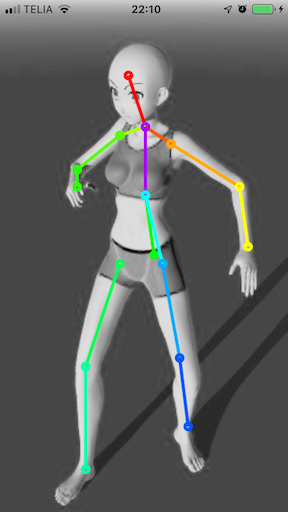
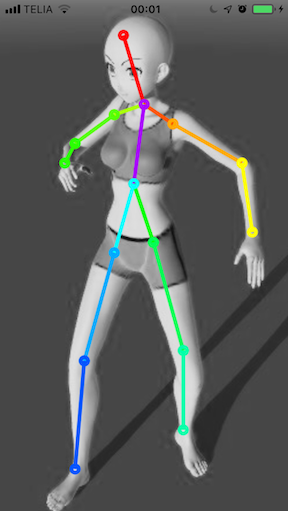
New results were added

diff --git a/pose/Pose.swift b/pose/Pose.swift
@@ -343,6 +343,24 @@ extension PoseEstimation {
     }
 }
 
+extension HeatMapJointCandidate {
+    func scaled(kx: CGFloat, ky: CGFloat) -> HeatMapJointCandidate {
+        return HeatMapJointCandidate(col: Int(CGFloat(self.col) * kx), row: Int(CGFloat(self.row) * kx),
+                                     layerIndex: self.layerIndex, confidence: self.confidence)
+    }
+}
+
+extension JointConnectionWithScore {
+    func scaled(kx: CGFloat, ky: CGFloat) -> JointConnectionWithScore {
+        return JointConnectionWithScore(connection: self.connection , score: self.score,
+                                        offsetJoint1: self.offsetJoint1, offsetJoint2: self.offsetJoint2,
+                                        joint1: JointPoint(x: Int(kx * CGFloat(self.joint1.x)),
+                                                           y: Int(ky * CGFloat(self.joint1.y))),
+                                        joint2: JointPoint(x: Int(kx * CGFloat(self.joint2.x)),
+                                                           y: Int(ky * CGFloat(self.joint2.y))))
+    }
+}
+
 extension PoseEstimation {
     
     private func resetOutput() {
@@ -393,22 +411,23 @@ extension PoseEstimation {
             // Use alpha to indicate candiates confidence
             let resizedBackgroundLayer = backgroundLayer.draw(width: modelOutputWidth,
                                                               height: modelOutputHeight).resized(to: self.modelConfig.inputSize)
-            completion(self.heatMapCandidates.draw(width: modelOutputWidth,
-                                          height: modelOutputHeight,
-                                          radius: 3.0,
-                                          lineWidth: 2.0,
-                                          on: resizedBackgroundLayer))
+            let kx = CGFloat(self.modelConfig.inputSize.width) / CGFloat(modelOutputWidth)
+            let ky = CGFloat(self.modelConfig.inputSize.height) / CGFloat(modelOutputHeight)
+            let candidates = self.heatMapCandidates.map { $0.scaled(kx: kx, ky: ky) }
+            completion(candidates.draw(radius: 3.0, lineWidth: 2.0, on: resizedBackgroundLayer))
         }
     }
     
     public func filteredHeatMapCandidatesImage(completion: @escaping ((UIImage)->())) {
         DispatchQueue.global(qos: .userInteractive).async {
+            let modelOutputWidth = self.modelConfig.outputWidth
+            let modelOutputHeight = self.modelConfig.outputHeight
+            let kx = CGFloat(self.modelConfig.inputSize.width) / CGFloat(modelOutputWidth)
+            let ky = CGFloat(self.modelConfig.inputSize.height) / CGFloat(modelOutputHeight)
+            let candidates = self.filteredHeatMapCandidates.map { $0.scaled(kx: kx, ky: ky) }
             // Draw joint candidates after second round filtering
-            completion(self.filteredHeatMapCandidates.draw(width: self.modelConfig.outputWidth,
-                                                  height: self.modelConfig.outputHeight,
-                                                  radius: 3.0,
-                                                  lineWidth: 6.0,
-                                                  on: UIImage.image(with: .white, size: self.modelConfig.inputSize)))
+            completion(candidates.draw(radius: 3.0, lineWidth: 6.0,
+                                       on: UIImage.image(with: .white, size: self.modelConfig.inputSize)))
         }
     }
     
@@ -418,10 +437,7 @@ extension PoseEstimation {
             let allConnectionsImage = self.allConnectionCandidates.draw(lineWidth: 5,
                                                                    on: UIImage.image(with: .white, size: self.modelConfig.inputSize))
             // Draw filtered joints over the all connection candidates
-            completion(self.filteredHeatMapCandidates.draw(width: self.modelConfig.outputWidth,
-                                        height: self.modelConfig.outputHeight,
-                                        radius: 5,
-                                        lineWidth: 3,
+            completion(self.filteredHeatMapCandidates.draw( radius: 5, lineWidth: 3,
                                         on: allConnectionsImage))
         }
     }
@@ -445,15 +461,17 @@ extension PoseEstimation {
                                                        blockSize: self.modelOutputLayerStride))
                 let pafMatY = Array(self.networkOutput.slice(blockIndex: pafLayerStartIndex + indexY,
                                                        blockSize: self.modelOutputLayerStride))
-                let pafXImage = pafMatX.draw(width: modelOutputWidth, height: modelOutputHeight)
-                let pafYImage = pafMatY.draw(width: modelOutputWidth, height: modelOutputHeight)
+                let pafXImage = pafMatX.draw(width: modelOutputWidth,
+                                             height: modelOutputHeight).resized(to: modelInputSize)
+                let pafYImage = pafMatY.draw(width: modelOutputWidth,
+                                             height: modelOutputHeight).resized(to: modelInputSize)
                 
-                // Two joints one connection
-                let joints1 = self.heatMapCandidates.filter({ $0.layerIndex == connection.joints.0.index()})
-                let joints2 = self.heatMapCandidates.filter({ $0.layerIndex == connection.joints.1.index()})
-                let filteredJoints1 = self.filteredHeatMapCandidates.filter({ $0.layerIndex == connection.joints.0.index()})
-                let filteredJoints2 = self.filteredHeatMapCandidates.filter({ $0.layerIndex == connection.joints.1.index()})
-                let jointConns = self.allConnectionCandidates.filter({ $0.connection == connection })
+                // Two joints one connection in between
+                var joints1 = self.heatMapCandidates.filter({ $0.layerIndex == connection.joints.0.index()})
+                var joints2 = self.heatMapCandidates.filter({ $0.layerIndex == connection.joints.1.index()})
+                var filteredJoints1 = self.filteredHeatMapCandidates.filter({ $0.layerIndex == connection.joints.0.index()})
+                var filteredJoints2 = self.filteredHeatMapCandidates.filter({ $0.layerIndex == connection.joints.1.index()})
+                var jointConns = self.allConnectionCandidates.filter({ $0.connection == connection })
                 
                 // The index of joint is equal to a heatmap index
                 let (heatMapIndex1, heatMapIndex2) = (connection.joints.0.index(), connection.joints.1.index())
@@ -463,60 +481,47 @@ extension PoseEstimation {
                                                         blockSize: self.modelOutputLayerStride))
                 let heatMap2 = Array(self.networkOutput.slice(blockIndex: heatMapIndex2,
                                                         blockSize: self.modelOutputLayerStride))
-                var heatMap1Image = heatMap1.draw(width: modelOutputWidth, height: modelOutputHeight)
-                var heatMap2Image = heatMap2.draw(width: modelOutputWidth, height: modelOutputHeight)
+                var heatMap1Image = heatMap1.draw(width: modelOutputWidth,
+                                                  height: modelOutputHeight).resized(to: modelInputSize)
+                var heatMap2Image = heatMap2.draw(width: modelOutputWidth,
+                                                  height: modelOutputHeight).resized(to: modelInputSize)
+                
+                let jointRadius = CGFloat(Int(modelInputSize.width) / modelOutputWidth / 2)
+                let connectionWidth = jointRadius * 0.8
+                
+                // NN output has a reduced size comparing to the input
+                // Although for a good visual experience it is better to enlarge the size
+                // To do this let's scale the heatmap and PAF`s output coordinates
+                let kx = CGFloat(self.modelConfig.inputSize.width) / CGFloat(modelOutputWidth)
+                let ky = CGFloat(self.modelConfig.inputSize.height) / CGFloat(modelOutputHeight)
+                joints1 = joints1.map { $0.scaled(kx: kx, ky: ky) }
+                joints2 = joints2.map { $0.scaled(kx: kx, ky: ky) }
+                filteredJoints1 = filteredJoints1.map { $0.scaled(kx: kx, ky: ky) }
+                filteredJoints2 = filteredJoints2.map { $0.scaled(kx: kx, ky: ky) }
+                jointConns = jointConns.map { $0.scaled(kx: kx, ky: ky) }
                 
                 // Draw joint candidates on the heat map layers
-                heatMap1Image = filteredJoints1.draw(width: modelOutputWidth,
-                                                     height: modelOutputHeight,
-                                                     alpha: 1.0,
-                                                     radius: 5,
-                                                     lineWidth: 3,
-                                                     on: heatMap1Image.resized(to: modelInputSize))
-                resultImages.append(joints1.draw(width: modelOutputWidth,
-                                                 height: modelOutputHeight,
-                                                 radius: 5,
-                                                 lineWidth: 0.5,
+                heatMap1Image = filteredJoints1.draw(alpha: 1.0, radius: 2, lineWidth: 2,
+                                                     on: heatMap1Image)
+                resultImages.append(joints1.draw(radius: jointRadius, lineWidth: 1,
                                                  on: heatMap1Image))
-                heatMap2Image = filteredJoints2.draw(width: modelOutputWidth,
-                                                     height: modelOutputHeight,
-                                                     alpha: 1.0,
-                                                     radius: 5,
-                                                     lineWidth: 3,
-                                                     on: heatMap2Image.resized(to: modelInputSize))
-                resultImages.append(joints2.draw(width: modelOutputWidth,
-                                                 height: modelOutputHeight,
-                                                 radius: 5,
-                                                 lineWidth: 0.5,
+                heatMap2Image = filteredJoints2.draw(alpha: 1.0, radius: 2, lineWidth: 2,
+                                                     on: heatMap2Image)
+                resultImages.append(joints2.draw(radius: jointRadius, lineWidth: 1,
                                                  on: heatMap2Image))
+                
                 // Draw joint candidates and connections on the PAFs layers
-                var pafXJointsConnectionsImage = filteredJoints1.draw(width: modelOutputWidth,
-                                                         height: modelOutputHeight,
-                                                         alpha: 1.0,
-                                                         radius: 7,
-                                                         lineWidth: 3,
-                                                         on: pafXImage.resized(to: modelInputSize))
-                pafXJointsConnectionsImage = filteredJoints2.draw(width: modelOutputWidth,
-                                                                      height: modelOutputHeight,
-                                                                      alpha: 1.0,
-                                                                      radius: 7,
-                                                                      lineWidth: 3,
-                                                                      on: pafXJointsConnectionsImage)
-                var pafYJointsConnectionsImage = filteredJoints1.draw(width: modelOutputWidth,
-                                                         height: modelOutputHeight,
-                                                         alpha: 1.0,
-                                                         radius: 7,
-                                                         lineWidth: 3,
-                                                         on: pafYImage.resized(to: modelInputSize))
-                pafYJointsConnectionsImage = filteredJoints2.draw(width: modelOutputWidth,
-                                                                      height: modelOutputHeight,
-                                                                      alpha: 1.0,
-                                                                      radius: 7,
-                                                                      lineWidth: 3,
-                                                                      on: pafYJointsConnectionsImage)
-                resultImages.append(jointConns.draw(lineWidth: 3,
+                var pafXJointsConnectionsImage = filteredJoints1.draw(alpha: 1.0, radius: 2 * jointRadius, lineWidth: 3,
+                                                                      on: pafXImage)
+                pafXJointsConnectionsImage = filteredJoints2.draw(alpha: 1.0, radius: 2 * jointRadius, lineWidth: 3,
+                                                                  on: pafXJointsConnectionsImage)
+                var pafYJointsConnectionsImage = filteredJoints1.draw(alpha: 1.0, radius: 2 * jointRadius, lineWidth: 3,
+                                                                      on: pafYImage)
+                pafYJointsConnectionsImage = filteredJoints2.draw(alpha: 1.0, radius: 2 * jointRadius, lineWidth: 3,
+                                                                  on: pafYJointsConnectionsImage)
+                resultImages.append(jointConns.draw(lineWidth: 2 * connectionWidth,
                                                     on: pafXJointsConnectionsImage))
-                resultImages.append(jointConns.draw(lineWidth: 3,
+                resultImages.append(jointConns.draw(lineWidth: 2 * connectionWidth,
                                                     on: pafYJointsConnectionsImage))
             }
             completion(resultImages)

diff --git a/pose/Extensions/Array+Extension.swift b/pose/Extensions/Array+Extension.swift
@@ -87,16 +87,12 @@ extension Array where Element == HeatMapJointCandidate {
     /// Draws heat map candidates on a specified image
     /// If alpha specified then it will be used or an alpha is calculated dynamically based on a heat map candidate's confidence
     /// The lineWidth varies based on the candidate's confidence
-    func draw(width: Int, height: Int, alpha: CGFloat? = nil,
-              radius: CGFloat = 3, lineWidth: CGFloat = 1, on image: UIImage) -> UIImage {
+    func draw(alpha: CGFloat? = nil, radius: CGFloat = 3,
+              lineWidth: CGFloat = 1, offset: CGFloat = 4, on image: UIImage) -> UIImage {
         let confidences: [Float] = self.map({ $0.confidence })
         guard let convertedValues = confidences.converted(from : confidences, highestValue: 0.7) else {
             return UIImage()
         }
-        let kx = CGFloat(image.size.width) / CGFloat(width)
-        let ky = CGFloat(image.size.height) / CGFloat(height)
-        let (offsetX, offsetY) = (image.size.width / CGFloat(width) / 2,
-                                  image.size.height / CGFloat(height) / 2)
         let renderer = UIGraphicsImageRenderer(size: image.size)
         
         return renderer.image { context in
@@ -106,8 +102,8 @@ extension Array where Element == HeatMapJointCandidate {
                 context.cgContext.setStrokeColor(c.color.cgColor)
                 context.cgContext.setAlpha(alpha ?? CGFloat(convertedValues[idx] + 0.3))
                 context.cgContext.beginPath()
-                let x = CGFloat(c.col) * kx + offsetX - radius
-                let y = CGFloat(c.row) * ky + offsetY - radius
+                let x = CGFloat(c.col) - radius + offset
+                let y = CGFloat(c.row) - radius + offset
                 context.cgContext.addEllipse(in: CGRect(origin: CGPoint(x: x, y: y),
                                                         size: CGSize(width: 2 * radius,
                                                                      height: 2 * radius)))
@@ -123,14 +119,14 @@ extension Array where Element == JointConnectionWithScore {
     /// The alpha is constant if specified or is dynamically calculated based on a confidence otherwise
     /// Draws joints also if drawJoint is true
     func draw(lineWidth: CGFloat = 5,
-             drawJoint: Bool = false, alpha: CGFloat? = nil,
+             drawJoint: Bool = false, alpha: CGFloat? = nil, offset: CGFloat = 4,
              on image: UIImage) -> UIImage {
         let renderer = UIGraphicsImageRenderer(size: image.size)
         return renderer.image { context in
             image.draw(at: .zero)
             self.draw(lineWidth: lineWidth,
                          drawJoint: drawJoint,
-                         alpha: alpha,
+                         alpha: alpha, offset: offset,
                          on: context.cgContext)
         }
     }
@@ -138,7 +134,7 @@ extension Array where Element == JointConnectionWithScore {
     /// The alpha is constant if specified or is dynamically calculated based on a confidence otherwise
     /// Draws joints also if drawJoint is true
     func draw(lineWidth: CGFloat = 5,
-              drawJoint: Bool = false, alpha: CGFloat? = nil,
+              drawJoint: Bool = false, alpha: CGFloat? = nil, offset: CGFloat = 4,
               on context: CGContext) {
         
         let confidences: [Float] = self.map({ $0.score })
@@ -152,14 +148,16 @@ extension Array where Element == JointConnectionWithScore {
             context.setAlpha(alpha ?? CGFloat(convertedValues[idx] + 0.3))
             context.setLineWidth(lineWidth)
             context.beginPath()
-            context.move(to: CGPoint(x: CGFloat(c.joint1.x), y: CGFloat(c.joint1.y)))
-            context.addLine(to: CGPoint(x: CGFloat(c.joint2.x), y: CGFloat(c.joint2.y)))
+            context.move(to: CGPoint(x: CGFloat(c.joint1.x) + offset,
+                                     y: CGFloat(c.joint1.y) + offset))
+            context.addLine(to: CGPoint(x: CGFloat(c.joint2.x) + offset,
+                                        y: CGFloat(c.joint2.y) + offset))
             if drawJoint {
                 let coords = [(c.joint1.x, c.joint1.y, c.connection.joints.0.color.cgColor),
                               (c.joint2.x, c.joint2.y, c.connection.joints.1.color.cgColor)]
                 coords.forEach { i in
-                    let x = CGFloat(i.0) - radius
-                    let y = CGFloat(i.1) - radius
+                    let x = CGFloat(i.0) - radius + offset
+                    let y = CGFloat(i.1) - radius + offset
                     context.setStrokeColor(i.2)
                     context.addEllipse(in: CGRect(origin: CGPoint(x: x, y: y),
                                                             size: CGSize(width: 2 * radius,

diff --git a/README.md b/README.md
@@ -104,3 +104,4 @@ b) Locating people inside the living area and do automation (turn on lights / mu
 |   |   |
 | :----------------------------------------------------------------------------------: | :------------------------------------------------------------------------------------:|
 | <img src="sample-images/pose-result3.png?sanitize=true&raw=true" /> | <img src="sample-images/pose-result4.png?sanitize=true&raw=true" /> |
+| <img src="sample-images/pose-result5.png?sanitize=true&raw=true" /> |  |
